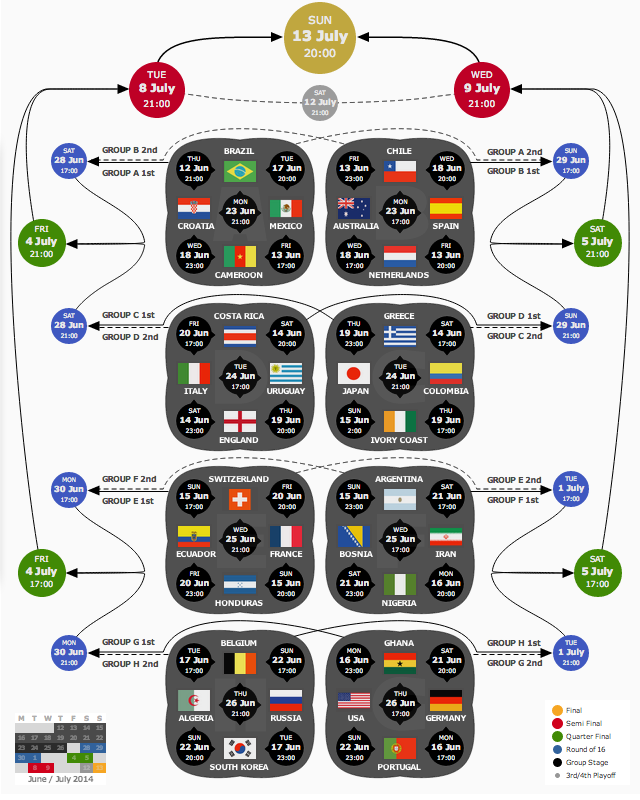
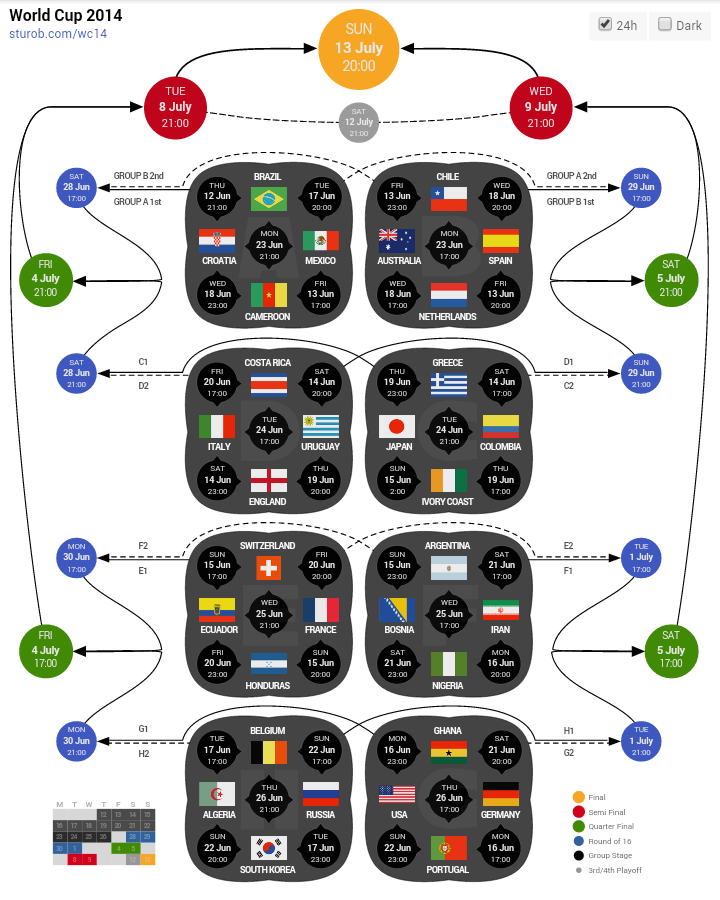
one bug left

diff --git a/wc14/index.html b/wc14/index.html
@@ -5,19 +5,35 @@
 	<link href="wc.css" media="screen" rel="stylesheet" type="text/css" />
 	<meta name="viewport" content="width=640" />
 	<meta http-equiv="X-UA-Compatible" content="IE=9">
-	<title>World Cup 2014</title>
+	<title>World Cup 2014 Planner: visualise groups, matches and routes to the final</title>
 
 	<meta property="og:site_name" content="World Cup Planner - sturob " />
-	<meta property="og:type" content="website" />
+	<meta property="og:type" content="article" />
 	<meta property="og:title" content="World Cup 2014 Visual Planner"/>
 	<meta property="og:url" content="http://sturob.com/wc14"/>
-	<meta property="og:image" content="http://sturob.com/wc14/wc.png"/>
-	<meta property="og:description " content="Visualise the 2014 World Cup Finals, optimised for your phone" />
+	<meta property="og:image" content="http://sturob.com/wc14/wc.jpg"/>
+	<meta property="og:description " content="Visualise the 2014 World Cup Finals: all the group games, possible knock-out round match-ups and the possible routes to the final. Optimised for retina mobile devices" />
+
+	<meta name="twitter:card" content="summary_large_image">
+	<meta name="twitter:site" content="@sturob">
+	<meta name="twitter:creator" content="@sturob">
+	<meta name="twitter:title" content="World Cup 2014 Visualisation">
+	<meta name="twitter:description" content="Visualise the 2014 World Cup Finals: all the group games, possible knock-out round match-ups and the possible routes to the final. Optimised for retina mobile devices">
+	<meta name="twitter:image:src" content="http://sturob.com/wc14/wc.png">
+
+	<meta name='keywords' context='World Cup, World Cup 2014, FIFA World Cup, World Cup schedule, World Cup results, World Cup draws'>
+
+	<link rel="icon" href="favicon.png">
+
+	<meta name="apple-mobile-web-app-capable" content="yes">
+	<meta name="mobile-web-app-capable" content="yes" />
+	<meta name="apple-mobile-web-app-status-bar-style" content="black">
+	<link rel="apple-touch-icon-precomposed" sizes="72x72" href="icon72.png">
 </head>
 
 <body>
 	<div id="header">
-		<h1>World Cup Planner</h1>
+		<h1>World Cup 2014</h1>
 		<a href="http://sturob.com/wc14/">sturob.com/wc14</a>
 	</div>
 	<div id="fakezoom"></div>

diff --git a/wc14/wc.css b/wc14/wc.css
@@ -28,7 +28,12 @@ h1 {
 	text-decoration: none;
 }
 
+
+body.dark p {
+	color: #999;
+}
 p {
+	margin-top: 24px;
 	font-size: 12px;
 	margin-bottom: 8px;
 }
